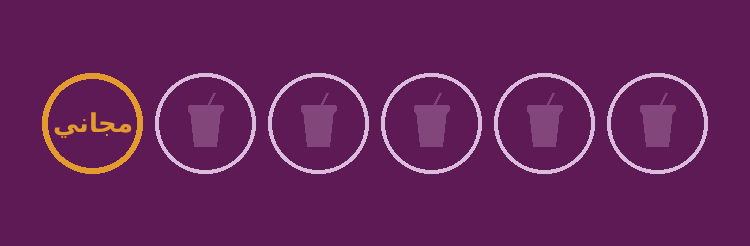
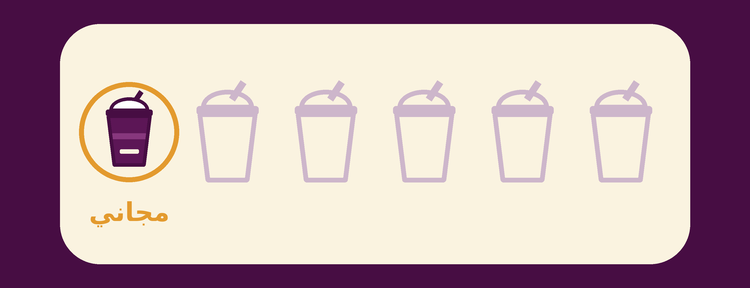
Wallet card redesign: drawn cup stamps on a cream panel, counter on top, QR
Strip is 375x144 with safe margins so nothing is cut off on wide phones.

Claude-Session: https://claude.ai/code/session_01Srws4wZzpzmeXmJyobkACx

diff --git a/api/wallet_lib.php b/api/wallet_lib.php
@@ -98,10 +98,12 @@ function wallet_pass_json(array $c): array {
         'labelColor' => 'rgb(227,154,46)',
         'sharingProhibited' => true,
         'storeCard' => [
-            'headerFields' => [['key' => 'free', 'label' => 'كوب مجاني', 'value' => $st['free'], 'textAlignment' => 'PKTextAlignmentRight',
-                                'changeMessage' => 'عندك كوب مجاني من أساي دوز! ينخصم في طلبك الجاي']],
+            'headerFields' => [['key' => 'stamps', 'label' => 'الأختام', 'value' => $st['stamps'] . '/' . $st['need'], 'textAlignment' => 'PKTextAlignmentRight',
+                                'changeMessage' => 'انضاف ختم في بطاقة أساي دوز! صار عندك %@']],
             'secondaryFields' => [
-                ['key' => 'stamps', 'label' => 'الأختام', 'value' => $st['stamps'] . ' / ' . $st['need'], 'changeMessage' => 'انضاف ختم! صار عندك %@'],
+                $st['free'] > 0
+                    ? ['key' => 'left', 'label' => 'كوب مجاني', 'value' => $st['free'] > 1 ? $st['free'] . ' أكواب جاهزة' : 'جاهز لك!', 'changeMessage' => 'عندك كوب مجاني من أساي دوز! ينخصم في طلبك الجاي']
+                    : ['key' => 'left', 'label' => 'باقي للمجاني', 'value' => ($st['need'] - $st['stamps']) . ($st['unit'] === 'cup' ? ' أكواب' : ' طلبات')],
                 ['key' => 'name', 'label' => 'الاسم', 'value' => $name, 'textAlignment' => 'PKTextAlignmentRight'],
             ],
             'backFields' => [
@@ -111,6 +113,7 @@ function wallet_pass_json(array $c): array {
                 ['key' => 'phone', 'label' => 'مربوطة برقم', 'value' => '•••• ' . substr($c['phone'], -4)],
             ],
         ],
+        'barcodes' => [['format' => 'PKBarcodeFormatQR', 'message' => $site . '/card.html?c=' . $c['card_token'], 'messageEncoding' => 'iso-8859-1', 'altText' => '•••• ' . substr($c['phone'], -4)]],
     ];
 }
 
